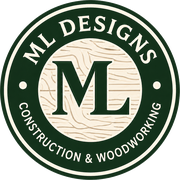
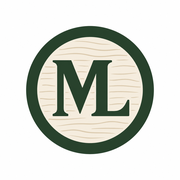
Full-width photo hero, bottom-aligned card links, plain monogram in nav/footer
- Home hero: full-width project photo (WebP) with left-aligned live content and
  cream gradient overlay; new hero copy + trust line; carousel removed
- Service cards: Learn more pinned to bottom with divider line and arrow, equal-height rows
- Nav/footer/favicons now use the plain ML monogram (ring wording removed for legibility)

diff --git a/index.html b/index.html
@@ -24,7 +24,7 @@
   "@type": "GeneralContractor",
   "name": "ML Designs Construction & Woodworking",
   "image": "https://mldesignscw.com/img/logo-badge-web.png",
-  "logo": "https://mldesignscw.com/img/logo-seal-512.png",
+  "logo": "https://mldesignscw.com/img/logo-monogram-512.png",
   "url": "https://mldesignscw.com/",
   "slogan": "Detail-Driven. Quality Built.",
   "foundingDate": "2017",
@@ -45,7 +45,7 @@
 <header class="nav">
   <div class="wrap">
     <a class="brand" href="index.html">
-      <img class="mark" src="img/logo-seal-96.png" alt="ML Designs logo">
+      <img class="mark" src="img/logo-monogram-96.png" alt="ML Designs logo">
       <span class="name">ML Designs<span>Construction &amp; Woodworking</span></span>
     </a>
     <nav class="nav-links" id="navLinks">
@@ -61,24 +61,21 @@
   </div>
 </header>
 
-<section class="hero heroB">
-  <div class="wrap reveal">
-    <span class="eyebrow">General Contractor &middot; St. John, Indiana</span>
-    <h1>Detail-Driven.<br>Quality Built.</h1>
-    <p class="lead">ML Designs is a general contractor serving Lake County, Porter County, and the surrounding area. High-end trim work is the specialty, and an in-house wood shop means custom pieces can be built from scratch when your project calls for it.</p>
-    <div class="hero-ctas">
-      <a class="btn btn-primary" href="quote.html">Request a Quote</a>
-      <a class="btn btn-ghost" href="work.html">See Our Work</a>
+<section class="hero heroPhoto">
+  <div class="wrap">
+    <div class="hero-content reveal">
+      <span class="eyebrow">General Contractor &middot; St. John, Indiana</span>
+      <h1>Detail-Driven.<br>Quality Built.</h1>
+      <p class="lead">Custom remodeling, trim carpentry, and one-of-a-kind woodwork for homes throughout Lake and Porter Counties.</p>
+      <div class="hero-ctas">
+        <a class="btn btn-primary" href="quote.html">Request a Quote</a>
+        <a class="btn btn-ghost" href="work.html">See Our Work</a>
+      </div>
+      <div class="hero-trust"><span>Est. 2017 &middot; Veteran Owned &middot; In-House Wood Shop</span></div>
     </div>
-    <div class="heroB-rule"><span>Est. 2017 &middot; Veteran Owned</span></div>
   </div>
+  <img class="hero-photo" src="img/hero-image.webp" alt="" fetchpriority="high" width="1916" height="821">
 </section>
-<div class="workstrip" aria-label="Recent project photos">
-  <div class="workstrip-track">
-    <img src="img/ph-basement-1.svg" alt="Finished basement project"><img src="img/ph-trim-2.svg" alt="Trim carpentry detail"><img src="img/ph-kitchen-3.svg" alt="Kitchen backsplash and counters"><img src="img/ph-wood-1.svg" alt="Custom woodworking piece"><img src="img/ph-exterior-1.svg" alt="Deck project"><img src="img/ph-basement-3.svg" alt="Basement living room"><img src="img/ph-trim-1.svg" alt="Finish carpentry project"><img src="img/ph-kitchen-1.svg" alt="Kitchen remodel">
-    <img src="img/ph-basement-1.svg" alt=""><img src="img/ph-trim-2.svg" alt=""><img src="img/ph-kitchen-3.svg" alt=""><img src="img/ph-wood-1.svg" alt=""><img src="img/ph-exterior-1.svg" alt=""><img src="img/ph-basement-3.svg" alt=""><img src="img/ph-trim-1.svg" alt=""><img src="img/ph-kitchen-1.svg" alt="">
-  </div>
-</div>
 
 <div class="trust">
   <div class="wrap">
@@ -102,7 +99,7 @@
         <div class="pad">
           <h3>Trim &amp; Finish Carpentry</h3>
           <p>The specialty. Doors, casing, wainscoting, beams, and built-ins with detail-driven execution.</p>
-          <span class="more">Learn more</span>
+          <span class="more">Learn more<svg viewBox="0 0 24 12" aria-hidden="true"><path d="M0 6h20M15 1l6 5-6 5"/></svg></span>
         </div>
       </a>
       <a class="card reveal" href="services.html#kitchens">
@@ -110,7 +107,7 @@
         <div class="pad">
           <h3>Kitchens &amp; Baths</h3>
           <p>Full remodels from demo to final fixture, planned around how you actually use the space.</p>
-          <span class="more">Learn more</span>
+          <span class="more">Learn more<svg viewBox="0 0 24 12" aria-hidden="true"><path d="M0 6h20M15 1l6 5-6 5"/></svg></span>
         </div>
       </a>
       <a class="card reveal" href="services.html#basements">
@@ -118,7 +115,7 @@
         <div class="pad">
           <h3>Basement Finishing</h3>
           <p>Unfinished space turned into living rooms, bars, offices, and guest suites.</p>
-          <span class="more">Learn more</span>
+          <span class="more">Learn more<svg viewBox="0 0 24 12" aria-hidden="true"><path d="M0 6h20M15 1l6 5-6 5"/></svg></span>
         </div>
       </a>
       <a class="card reveal" href="services.html#woodworking">
@@ -126,7 +123,7 @@
         <div class="pad">
           <h3>Custom Woodworking</h3>
           <p>Tables, shelving, mantels, and one-off pieces built in our own wood shop.</p>
-          <span class="more">Learn more</span>
+          <span class="more">Learn more<svg viewBox="0 0 24 12" aria-hidden="true"><path d="M0 6h20M15 1l6 5-6 5"/></svg></span>
         </div>
       </a>
       <a class="card reveal" href="services.html#exterior">
@@ -134,7 +131,7 @@
         <div class="pad">
           <h3>Decks &amp; Exterior</h3>
           <p>Decks, pergolas, and outdoor structures built square, solid, and to code.</p>
-          <span class="more">Learn more</span>
+          <span class="more">Learn more<svg viewBox="0 0 24 12" aria-hidden="true"><path d="M0 6h20M15 1l6 5-6 5"/></svg></span>
         </div>
       </a>
     </div>
@@ -186,7 +183,7 @@
   <div class="wrap">
     <div>
       <div class="fbrand">
-        <img src="img/logo-seal-96.png" alt="">
+        <img src="img/logo-monogram-96.png" alt="">
         <div><b>ML Designs</b><span>Construction &amp; Woodworking</span></div>
       </div>
       <p>Detail-Driven. Quality Built.<br>General contractor based in St. John, Indiana. Serving Lake County, Porter County, and the surrounding area since 2017.</p>

diff --git a/style.css b/style.css
@@ -74,13 +74,15 @@ section{padding:4.2rem 0}
 
 /* Cards / services grid */
 .grid{display:grid;grid-template-columns:repeat(auto-fit,minmax(210px,1fr));gap:1.3rem;margin-top:2.2rem}
-.card{display:block;background:var(--white);border:1px solid var(--cream-deep);border-radius:var(--radius);overflow:hidden;box-shadow:var(--shadow-sm);color:var(--ink)}
+.card{display:flex;flex-direction:column;background:var(--white);border:1px solid var(--cream-deep);border-radius:var(--radius);overflow:hidden;box-shadow:var(--shadow-sm);color:var(--ink)}
 .card img{aspect-ratio:4/3;object-fit:cover;width:100%;transition:transform .35s}
 @media (hover:hover){.card:hover img{transform:scale(1.04)}}
-.card .pad{padding:1.1rem 1.2rem 1.3rem}
+.card .pad{display:flex;flex-direction:column;flex:1;padding:1.1rem 1.2rem 1.3rem}
 .card h3{margin-bottom:.35rem}
-.card p{font-size:.92rem}
-.card .more{display:inline-block;margin-top:.6rem;font-weight:600;font-size:.9rem;color:var(--brown)}
+.card p{font-size:.92rem;margin-bottom:.9rem}
+.card .more{display:inline-flex;align-items:center;gap:.5rem;margin-top:auto;padding-top:.85rem;border-top:1px solid var(--cream-deep);font-weight:600;font-size:.9rem;color:var(--brown)}
+.card .more svg{width:22px;height:11px;fill:none;stroke:currentColor;stroke-width:2;stroke-linecap:round;stroke-linejoin:round;transition:transform .25s}
+@media (hover:hover){.card:hover .more svg{transform:translateX(4px)}}
 
 /* Featured strip */
 .feat{display:grid;grid-template-columns:repeat(3,1fr);gap:1.1rem;margin-top:2.2rem}
@@ -108,6 +110,41 @@ section{padding:4.2rem 0}
 .cta-band .btn{background:var(--cream);color:var(--brown);border-color:var(--cream)}
 @media (hover:hover){.cta-band .btn:hover{background:var(--white);transform:translateY(-2px)}}
 @media (hover:none){.cta-band .btn:hover{background:var(--cream);color:var(--brown)}}
+
+/* Full-width photographic hero */
+.heroPhoto{position:relative;min-height:clamp(620px,72vh,820px);display:flex;align-items:center;overflow:hidden;background:var(--cream);padding:3rem 0}
+.heroPhoto .wrap{position:relative;z-index:2;display:block}
+.heroPhoto .hero-photo{position:absolute;inset:0;width:100%;height:100%;object-fit:cover;object-position:center;z-index:0}
+.heroPhoto::before{content:"";position:absolute;inset:0;z-index:1;pointer-events:none;
+  background:linear-gradient(90deg,
+    rgba(250,245,233,.98) 0%,
+    rgba(250,245,233,.95) 24%,
+    rgba(250,245,233,.80) 40%,
+    rgba(250,245,233,.32) 56%,
+    rgba(250,245,233,0) 74%)}
+.heroPhoto .hero-content{max-width:620px}
+.heroPhoto h1{margin:.4rem 0 1rem;font-size:clamp(2.6rem,6vw,4.4rem);line-height:1.05}
+.hero-trust{margin-top:2rem;display:flex;align-items:center;gap:1rem;color:var(--brown)}
+.hero-trust::before{content:"";height:2px;width:48px;background:var(--brown);flex:0 0 auto}
+.hero-trust span{font-size:.8rem;font-weight:600;letter-spacing:.13em;text-transform:uppercase}
+@media(max-width:960px){
+  .heroPhoto{min-height:clamp(520px,66vh,680px)}
+  .heroPhoto::before{background:linear-gradient(90deg,
+    rgba(250,245,233,.99) 0%,
+    rgba(250,245,233,.97) 40%,
+    rgba(250,245,233,.82) 60%,
+    rgba(250,245,233,.38) 80%,
+    rgba(250,245,233,.06) 100%)}
+  .heroPhoto .hero-content{max-width:560px}
+}
+@media(max-width:640px){
+  .heroPhoto{display:block;min-height:0;padding:0}
+  .heroPhoto::before{display:none}
+  .heroPhoto .wrap{padding-top:2.4rem;padding-bottom:2rem}
+  .heroPhoto .hero-content{max-width:none}
+  .heroPhoto .hero-photo{position:static;width:100%;height:clamp(280px,52vw,360px);object-position:62% center}
+  .hero-ctas .btn{flex:1 1 auto}
+}
 
 /* Services page */
 .svc{scroll-margin-top:90px;padding:3.4rem 0;border-bottom:1px solid var(--cream-deep)}

diff --git a/about.html b/about.html
@@ -24,7 +24,7 @@
 <header class="nav">
   <div class="wrap">
     <a class="brand" href="index.html">
-      <img class="mark" src="img/logo-seal-96.png" alt="ML Designs logo">
+      <img class="mark" src="img/logo-monogram-96.png" alt="ML Designs logo">
       <span class="name">ML Designs<span>Construction &amp; Woodworking</span></span>
     </a>
     <nav class="nav-links" id="navLinks">
@@ -120,7 +120,7 @@
   <div class="wrap">
     <div>
       <div class="fbrand">
-        <img src="img/logo-seal-96.png" alt="">
+        <img src="img/logo-monogram-96.png" alt="">
         <div><b>ML Designs</b><span>Construction &amp; Woodworking</span></div>
       </div>
       <p>Detail-Driven. Quality Built.<br>General contractor based in St. John, Indiana. Serving Lake County, Porter County, and the surrounding area since 2017.</p>

diff --git a/quote.html b/quote.html
@@ -24,7 +24,7 @@
 <header class="nav">
   <div class="wrap">
     <a class="brand" href="index.html">
-      <img class="mark" src="img/logo-seal-96.png" alt="ML Designs logo">
+      <img class="mark" src="img/logo-monogram-96.png" alt="ML Designs logo">
       <span class="name">ML Designs<span>Construction &amp; Woodworking</span></span>
     </a>
     <nav class="nav-links" id="navLinks">
@@ -159,7 +159,7 @@
   <div class="wrap">
     <div>
       <div class="fbrand">
-        <img src="img/logo-seal-96.png" alt="">
+        <img src="img/logo-monogram-96.png" alt="">
         <div><b>ML Designs</b><span>Construction &amp; Woodworking</span></div>
       </div>
       <p>Detail-Driven. Quality Built.<br>General contractor based in St. John, Indiana. Serving Lake County, Porter County, and the surrounding area since 2017.</p>

diff --git a/services.html b/services.html
@@ -24,7 +24,7 @@
 <header class="nav">
   <div class="wrap">
     <a class="brand" href="index.html">
-      <img class="mark" src="img/logo-seal-96.png" alt="ML Designs logo">
+      <img class="mark" src="img/logo-monogram-96.png" alt="ML Designs logo">
       <span class="name">ML Designs<span>Construction &amp; Woodworking</span></span>
     </a>
     <nav class="nav-links" id="navLinks">
@@ -149,7 +149,7 @@
   <div class="wrap">
     <div>
       <div class="fbrand">
-        <img src="img/logo-seal-96.png" alt="">
+        <img src="img/logo-monogram-96.png" alt="">
         <div><b>ML Designs</b><span>Construction &amp; Woodworking</span></div>
       </div>
       <p>Detail-Driven. Quality Built.<br>General contractor based in St. John, Indiana. Serving Lake County, Porter County, and the surrounding area since 2017.</p>

diff --git a/work.html b/work.html
@@ -24,7 +24,7 @@
 <header class="nav">
   <div class="wrap">
     <a class="brand" href="index.html">
-      <img class="mark" src="img/logo-seal-96.png" alt="ML Designs logo">
+      <img class="mark" src="img/logo-monogram-96.png" alt="ML Designs logo">
       <span class="name">ML Designs<span>Construction &amp; Woodworking</span></span>
     </a>
     <nav class="nav-links" id="navLinks">
@@ -92,7 +92,7 @@
   <div class="wrap">
     <div>
       <div class="fbrand">
-        <img src="img/logo-seal-96.png" alt="">
+        <img src="img/logo-monogram-96.png" alt="">
         <div><b>ML Designs</b><span>Construction &amp; Woodworking</span></div>
       </div>
       <p>Detail-Driven. Quality Built.<br>General contractor based in St. John, Indiana. Serving Lake County, Porter County, and the surrounding area since 2017.</p>
